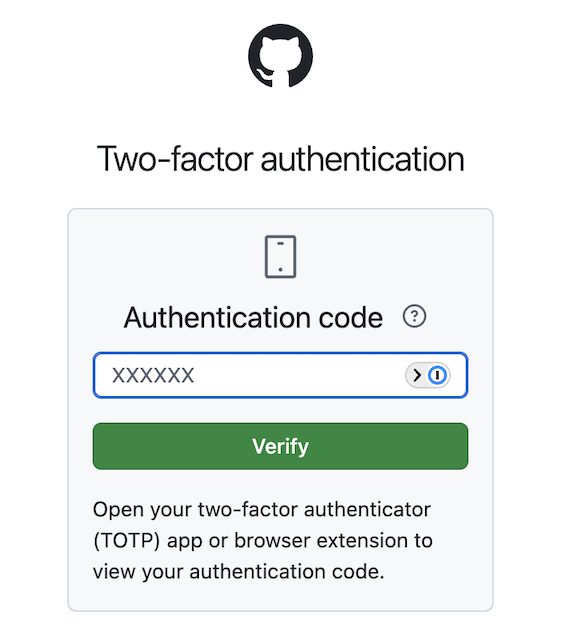
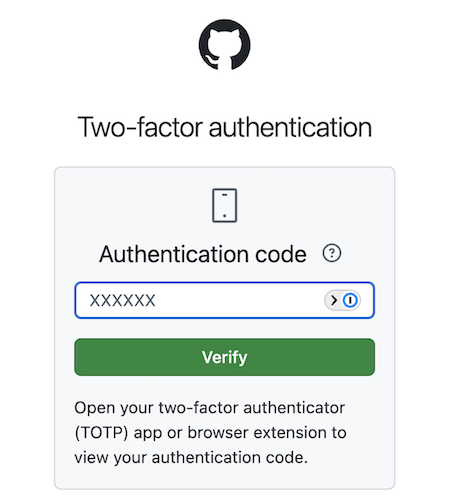
Resized some screenshots, added text and task boxes

diff --git a/en/step_1.md b/en/step_1.md
@@ -4,29 +4,40 @@
 ### You will need access to the following:
 - [Raspberry Pi Foundation Learning Admin](https://learning-admin.raspberrypi.org/admin/projects)
 - [GitHub](https://github.com/) 
-- GitHub desktop application (download via Kandji)
 - Visual Studio (VS) Code desktop application (download via Kandji)
+- **Optional** GitHub desktop application (download via Kandji)
 
 
-## Setting up your learning admin account
-Learning admin is the database where the project is created. This database turns everything you write into HTML and that’s what the projects site downloads, it’s not taken from GitHub.
-- Set up your learning admin account using your Raspberry Pi credentials and save your login information in 1Password
-- Be careful to rename your saved login details as ‘Learning Admin’ or something similar to avoid overwriting your other RPF logins
+--- task ---
+
+## Setting up your Learning Admin account
+Learning Admin is the database where the project is created. This database turns everything you write into HTML and that’s what the projects site downloads, it’s not taken from GitHub.
+- You need to be added to Learning Admin by an administrator, your Senior Learning Manager or another CCP Team Member will be able to assist you
+- Set up your account using your Raspberry Pi email address and create a password 
+- Save your login information in 1Password and be careful to rename your login details as ‘Learning Admin’ or something similar to avoid overwriting other RPF logins
 
 
 ![Learning Admin Panel](images/Learning_Admin.png)
 
+--- task ---
+
+
+--- task ---
 
 ## Setting up your GitHub account
-- Sign up for GitHub and log in
+- Sign up for [GitHub](https://github.com/) and log in
 - You will be asked for two factor authentication, retrieve your code on the Google Authenticator app (you can download this to your phone and login with your Raspberry Pi credentials)
-- Once you are logged in to GitHub make sure you save a copy of your recovery codes
+- Once you are logged in to GitHub make sure you save a copy of your recovery codes on your Google Drive
 
 
 ![GitHub Signup](images/GitHub_Signup.png)
 
 ![GitHub 2FA](images/GitHub_2FA.png)
 
+--- task ---
+
+
+--- task ---
 
 ## GitHub groups to be added to by your Senior Learning Manager
 - raspberrypilearning organization
@@ -34,11 +45,15 @@ Learning admin is the database where the project is created. This database turns
 - raspberrypilearning/learning-team
 - raspberrypilearning/content-team
 
-In addition to the above, download the GitHub desktop app via Kandji.
+You can download the GitHub desktop app via Kandji if you wish, this is optional. 
 
 
 ![GitHub Desktop App](images/GitHub_Desktop.png)
 
+--- task ---
+
+
+--- task ---
 
 ## Accessing Visual Studio (VS) Code
 - Download the VS Code desktop app via Kandji
@@ -47,6 +62,7 @@ In addition to the above, download the GitHub desktop app via Kandji.
 
 ![VS Code Desktop App](images/VS_Code.png)
 
+--- task ---
 
-## Next steps
+### Next steps
 Once you have everything set up you are ready to start creating your new project!
